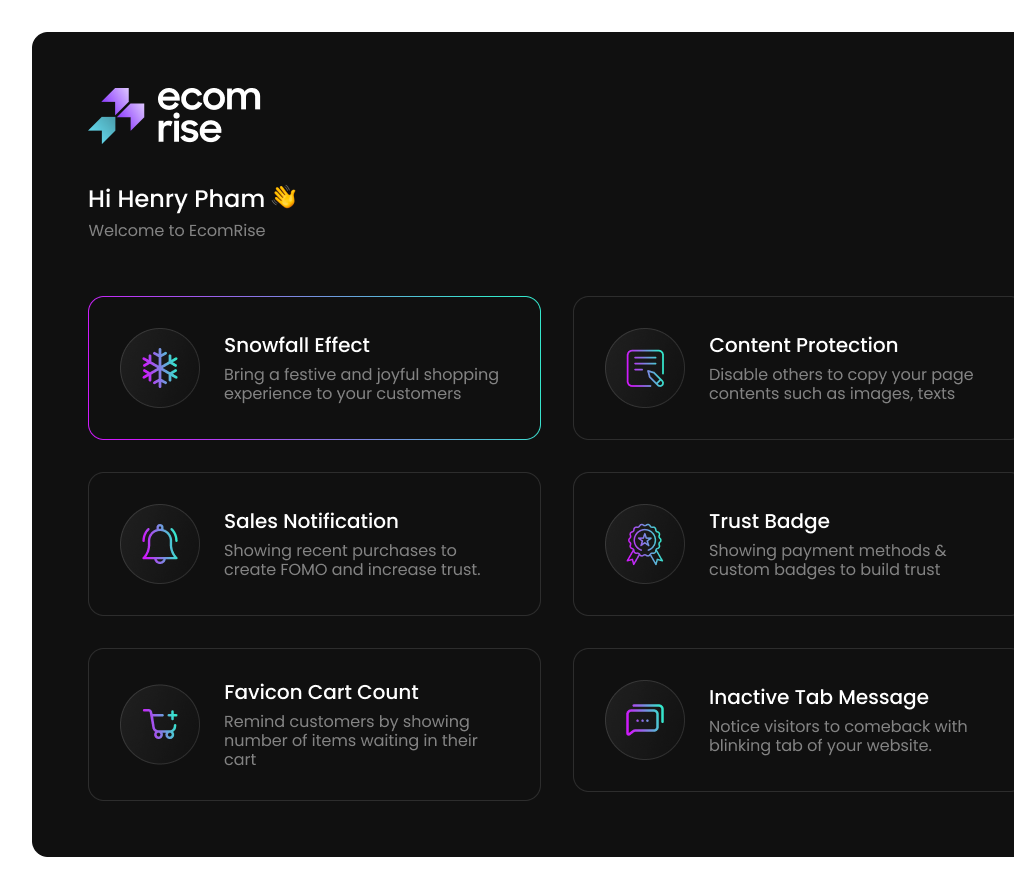
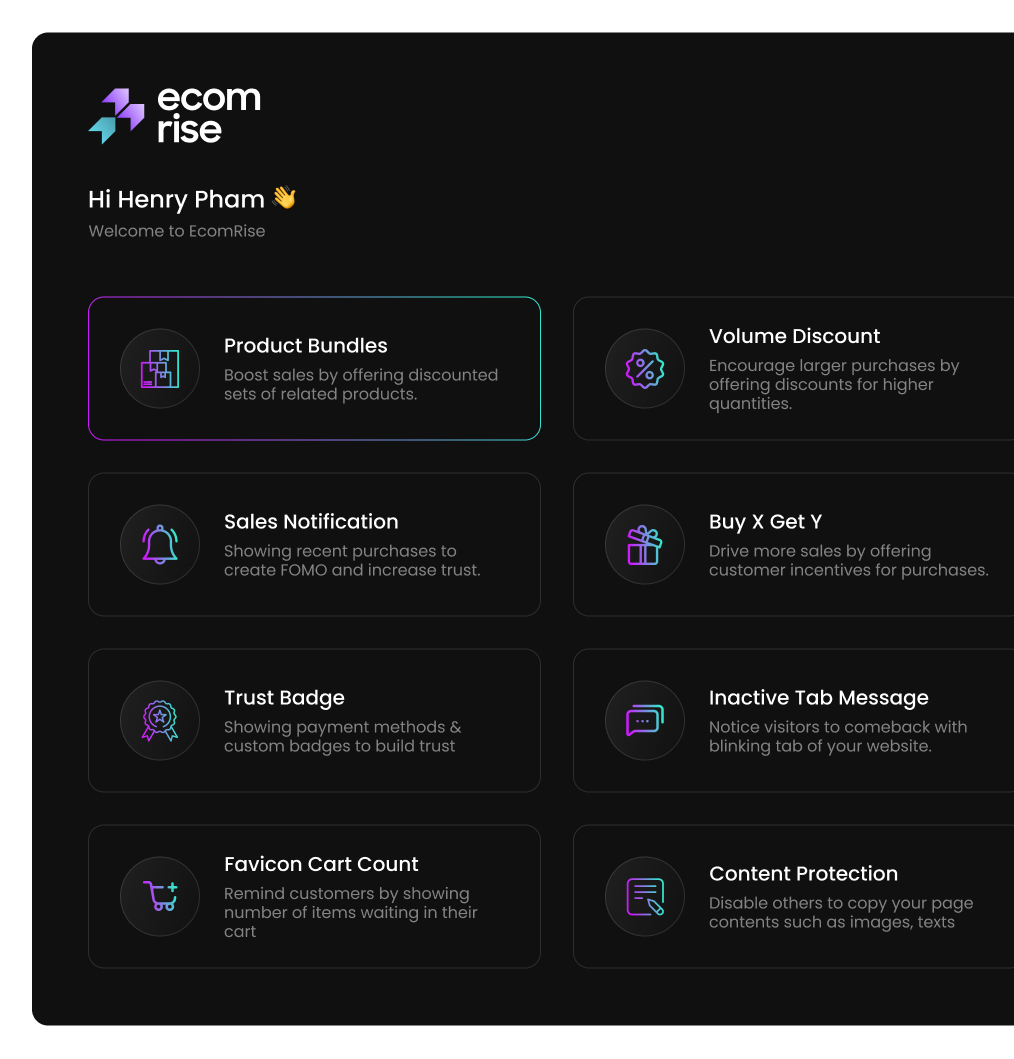
update ER

diff --git a/index.html b/index.html
@@ -6777,7 +6777,7 @@
                         </linearGradient>
                       </defs>
                     </svg>
-                    <span>Enjoy advanced theme functions: Compare,<br> Wishlist, Countdown</span>
+                    <span>Enjoy advanced theme functions: Compare,<br> Wishlist</span>
                   </li>
                   <li class="wow animated fadeInLeft" data-wow-delay="0s" data-wow-duration="1s">
                     <svg xmlns="http://www.w3.org/2000/svg" width="28" height="29" viewBox="0 0 28 29" fill="none">
@@ -6798,10 +6798,23 @@
                         </linearGradient>
                       </defs>
                     </svg>
-                    <span>Activate other boost sales add-ons: Sales Notice<br> Popup, Trust Badges, Inactive Tab/Favicon
-                      Cart Count,<br> Content Protection, Christmas Effect.</span>
+                    <span>Unlock other boost sale add-ons in EcomRise: product<br> bundles, BOGOs, Volume Discount, Sales Pop, etc.</span>
                   </li>
                 </ul>
+                <div class="guard">
+                  <div class="wrap">
+                    <svg width="17" height="22" viewBox="0 0 17 22" fill="none" xmlns="http://www.w3.org/2000/svg">
+                      <path d="M7.735 0.662917L1.12389 3.60014C0.443889 3.90236 0 4.58236 0 5.32847V9.76736C0 15.009 3.62667 19.9107 8.5 21.1007C13.3733 19.9107 17 15.009 17 9.76736V5.32847C17 4.58236 16.5561 3.90236 15.8761 3.60014L9.265 0.662917C8.78333 0.445694 8.21667 0.445694 7.735 0.662917ZM5.94056 14.7635L3.49444 12.3174C3.40701 12.2299 3.33765 12.1261 3.29032 12.0119C3.243 11.8976 3.21865 11.7752 3.21865 11.6515C3.21865 11.5279 3.243 11.4054 3.29032 11.2912C3.33765 11.1769 3.40701 11.0731 3.49444 10.9857C3.58188 10.8983 3.68569 10.8289 3.79993 10.7816C3.91418 10.7343 4.03662 10.7099 4.16028 10.7099C4.28393 10.7099 4.40638 10.7343 4.52062 10.7816C4.63487 10.8289 4.73867 10.8983 4.82611 10.9857L6.61111 12.7613L12.1644 7.20792C12.2519 7.12048 12.3557 7.05112 12.4699 7.0038C12.5842 6.95648 12.7066 6.93212 12.8303 6.93212C12.9539 6.93212 13.0764 6.95648 13.1906 7.0038C13.3049 7.05112 13.4087 7.12048 13.4961 7.20792C13.5836 7.29536 13.6529 7.39916 13.7002 7.5134C13.7476 7.62765 13.7719 7.75009 13.7719 7.87375C13.7719 7.99741 13.7476 8.11985 13.7002 8.2341C13.6529 8.34834 13.5836 8.45215 13.4961 8.53958L7.27222 14.7635C7.18485 14.851 7.08106 14.9205 6.96681 14.9679C6.85256 15.0153 6.73008 15.0397 6.60639 15.0397C6.4827 15.0397 6.36022 15.0153 6.24597 14.9679C6.13171 14.9205 6.02793 14.851 5.94056 14.7635Z" fill="url(#paint0_linear_3272_176)"/>
+                      <defs>
+                      <linearGradient id="paint0_linear_3272_176" x1="2.49457" y1="-6.30559" x2="24.162" y2="-3.25577" gradientUnits="userSpaceOnUse">
+                      <stop stop-color="#00D426"/>
+                      <stop offset="1" stop-color="#21FFF2"/>
+                      </linearGradient>
+                      </defs>
+                    </svg>
+                    <p class="text"><strong>Special offer:</strong> Buy Kalles to enjoy 6 month free of EcomRise<br> Premium. Install EcomRise & chat with support in-app to claim<br> this deal.</p>
+                  </div>
+                </div>
                 <div class="btns_ins_e">
                   <effect-custom type="button" config='{"num":3,"showMobile":true}' class="call_to_action light_skew_hover wow animated fadeInUp"
                     data-wow-delay="0s" data-wow-duration="1s">
@@ -6833,7 +6846,7 @@
             <div class="col col-12 col-xl-6 col-2xl-7">
               <div class="item-inner right wow animated fadeInUp" data-wow-delay="0s" data-wow-duration="1s">
                 <div class="wrap">
-                  <div class="ratio" style="--aspect-ratioapt:1014/889">
+                  <div class="ratio" style="--aspect-ratioapt:1046/1093">
                     <img loading="lazy" src="./assets/images/claim/2.png" alt="Claim EComposer">
                   </div>
                 </div>

diff --git a/assets/css/index.css b/assets/css/index.css
@@ -3474,7 +3474,29 @@ header-custom header-custom {
   -ms-flex: 0 1 auto;
   flex: 0 1 auto;
 }
-
+.guard .wrap{
+  border: 0.5px solid #FFFFFF1F;
+  border-radius: 16px;
+  backdrop-filter: blur(16px);
+  background: #20202052;
+  width: fit-content;
+  padding: 20px 50px 20px 20px;
+  display: flex;
+  gap:12px;
+  margin-bottom: 64px;
+}
+.guard .wrap > svg {
+  flex: 1 0 auto;
+}
+.guard p{
+  margin: 0;
+  font-size: 14px;
+  line-height: 20px;
+  font-weight: 400;
+}
+.guard strong{
+  font-weight: 600;
+}
 .ecomrise .call_to_action .cta {
   gap: 8px;
 }
@@ -5613,7 +5635,7 @@ footer .bg_blur {
     margin-bottom: 30px;
   }
 
-  .ecomrise .list_fe {
+  .ecomrise .list_fe,.guard .wrap {
     margin-bottom: 30px;
   }
 
@@ -6395,7 +6417,8 @@ footer .bg_blur {
   }
 
   .ecomrise .title,
-  .ecomrise .list_fe {
+  .ecomrise .list_fe,
+  .guard .wrap {
     margin-bottom: 40px;
   }
 
@@ -6917,8 +6940,12 @@ footer .bg_blur {
   }
 
   .ecomrise .title,
-  .ecomrise .list_fe {
+  .ecomrise .list_fe,
+  .guard .wrap {
     margin-bottom: 25px;
+  }
+  .guard .wrap{
+    padding: 15px;
   }
 
   .ecomrise .list_fe li {
